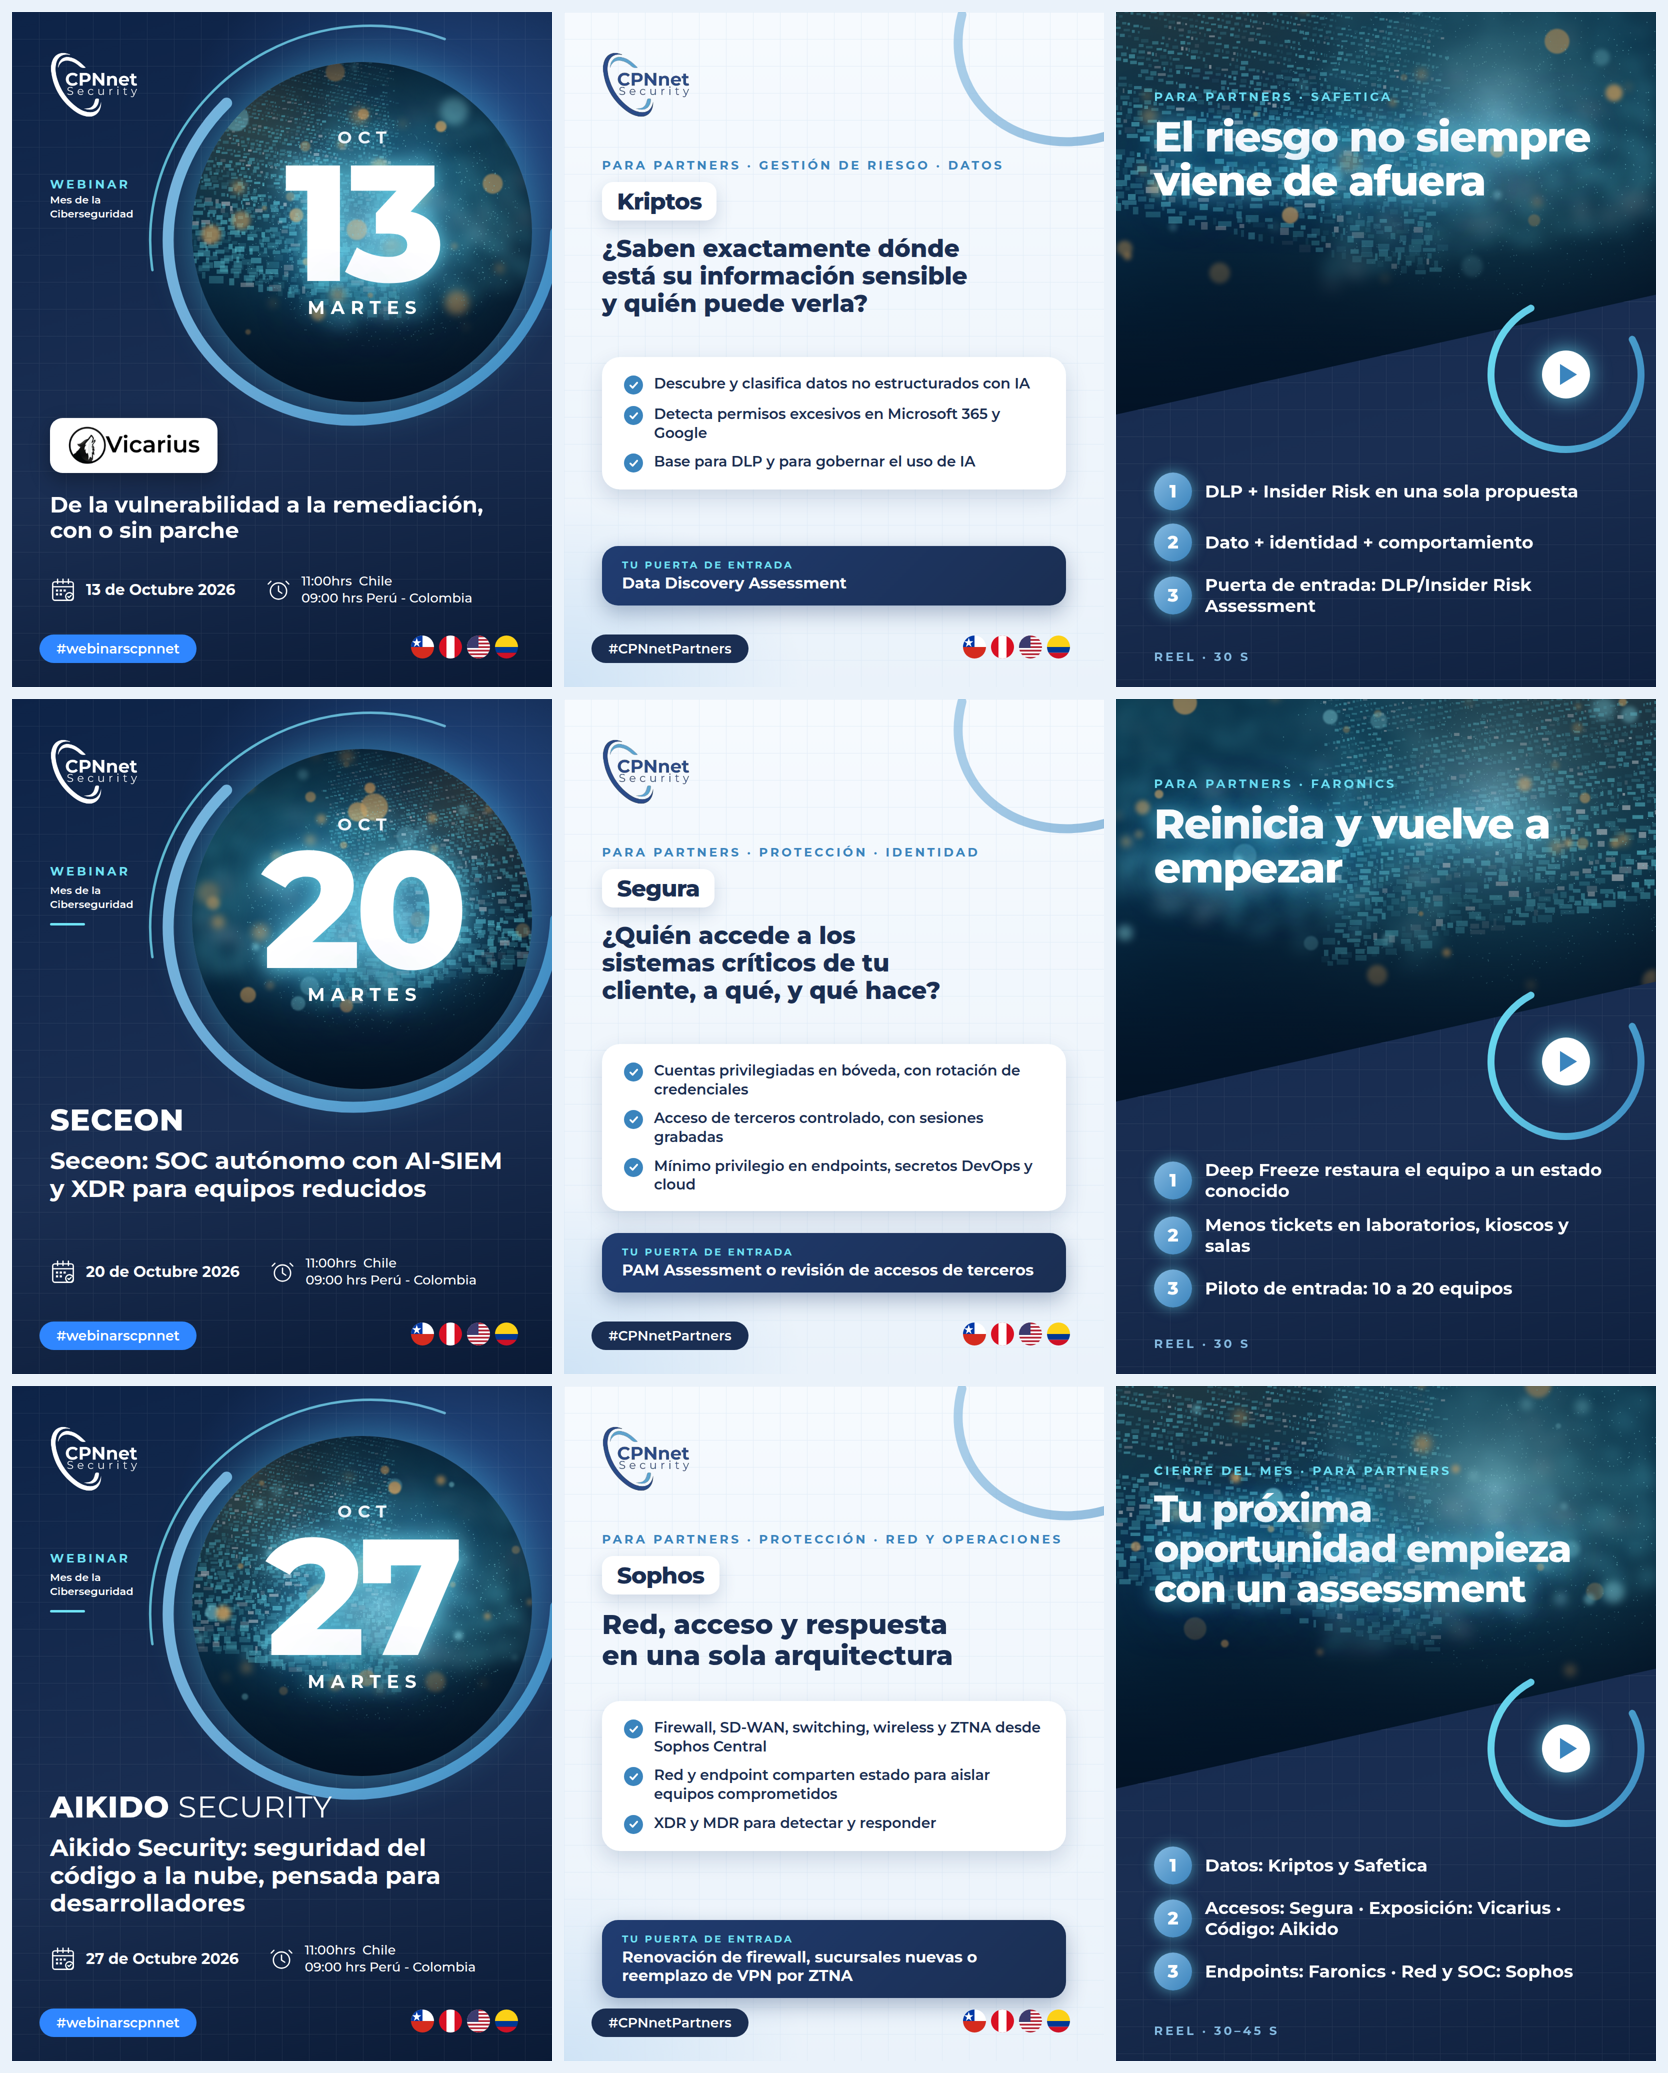
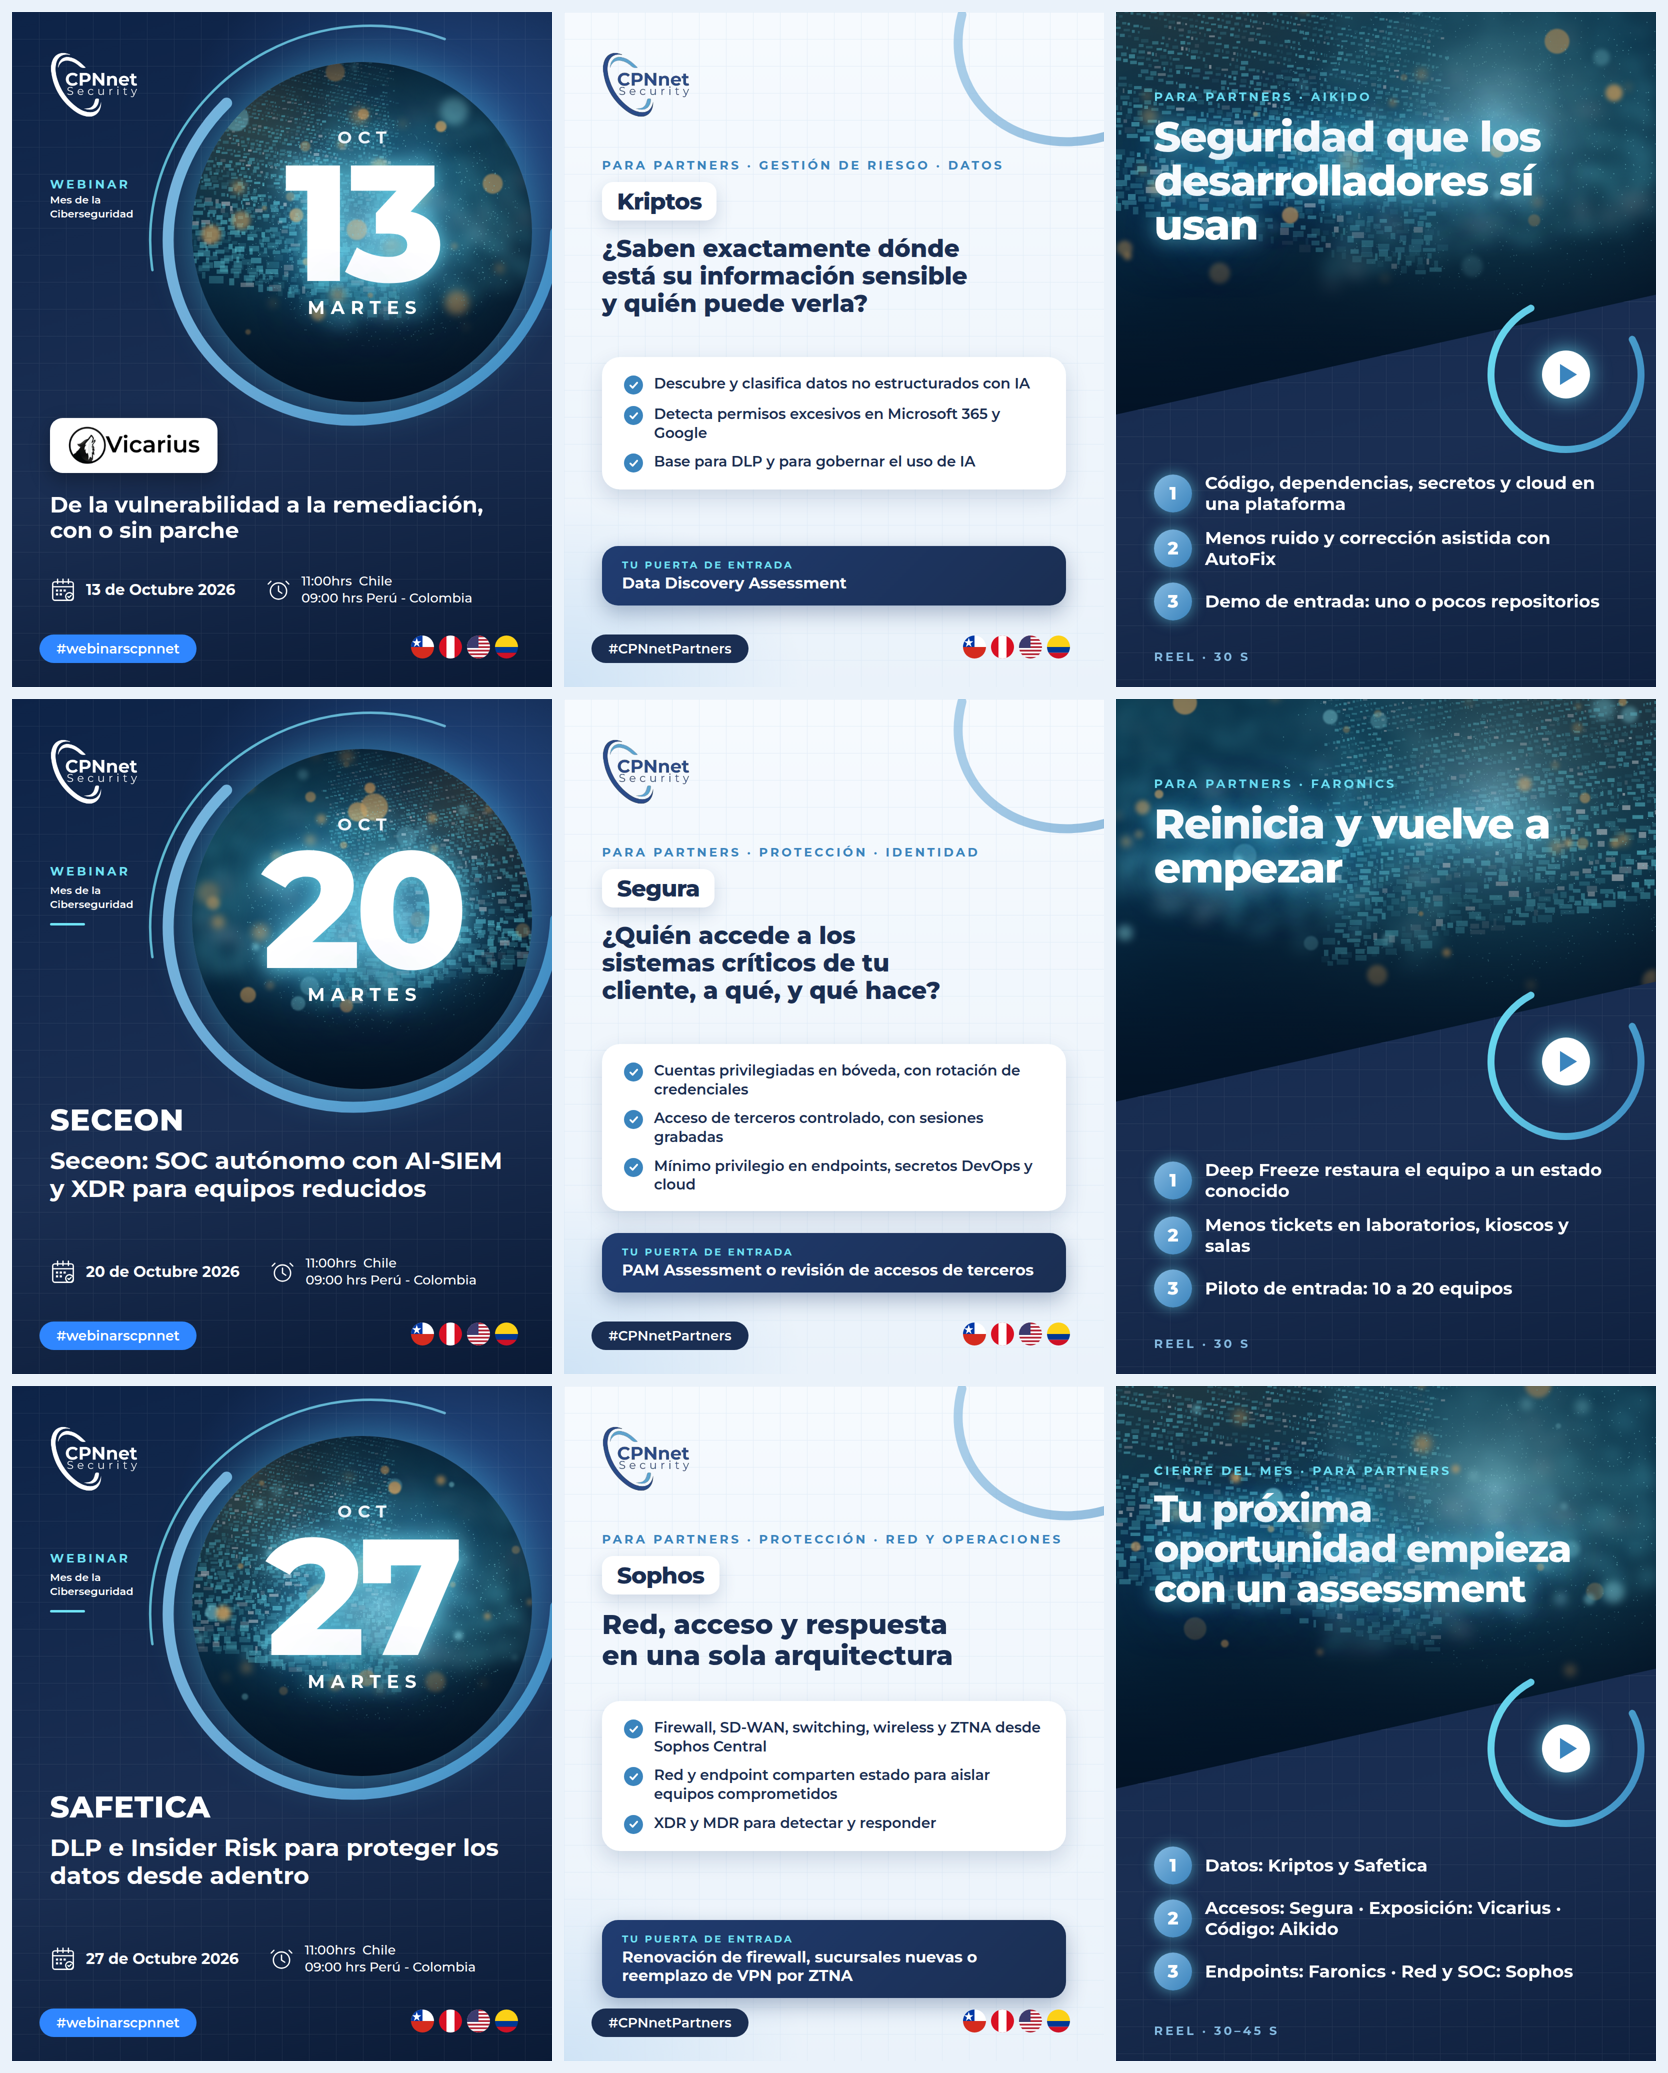
Grilla partners: webinar del 27 pasa a Safetica; reel del 16 pasa a Aikido
Claude-Session: https://claude.ai/code/session_01BhgdAk8jn1gDyTpKoYa1pq

Changed region(s): [[0.6859, 0.2161, 0.9664, 0.3087], [0.0312, 0.8644, 0.2806, 0.9262], [0.6859, 0.0617, 0.9664, 0.1235]]

diff --git a/octubre-ciberseguridad/src/build_partners.py b/octubre-ciberseguridad/src/build_partners.py
@@ -74,8 +74,8 @@ PIECES = [
       titulo="¿Saben exactamente dónde está su información sensible y quién puede verla?",
       bullets=["Descubre y clasifica datos no estructurados con IA", "Detecta permisos excesivos en Microsoft 365 y Google", "Base para DLP y para gobernar el uso de IA"],
       entrada="Data Discovery Assessment"),
- dict(n="03", fecha="Vie 16 oct", tipo="reel", nombre="reel-safetica", seed=61, flip=True, tag="Para partners · Safetica", hook="El riesgo no siempre viene de afuera",
-      points=["DLP + Insider Risk en una sola propuesta", "Dato + identidad + comportamiento", "Puerta de entrada: DLP/Insider Risk Assessment"], dur="30 s"),
+ dict(n="03", fecha="Vie 16 oct", tipo="reel", nombre="reel-aikido", seed=61, flip=True, tag="Para partners · Aikido", hook="Seguridad que los desarrolladores sí usan",
+      points=["Código, dependencias, secretos y cloud en una plataforma", "Menos ruido y corrección asistida con AutoFix", "Demo de entrada: uno o pocos repositorios"], dur="30 s"),
  dict(n="04", fecha="Lun 19 oct", tipo="copia", nombre="webinar-seceon", src=V / "posts/07_webinar-seceon.png"),
  dict(n="05", fecha="Mié 21 oct", tipo="sol", nombre="segura", marca="Segura", tag="Para partners · Protección · Identidad",
       titulo="¿Quién accede a los sistemas críticos de tu cliente, a qué, y qué hace?",
@@ -83,7 +83,8 @@ PIECES = [
       entrada="PAM Assessment o revisión de accesos de terceros"),
  dict(n="06", fecha="Vie 23 oct", tipo="reel", nombre="reel-faronics", seed=71, tag="Para partners · Faronics", hook="Reinicia y vuelve a empezar",
       points=["Deep Freeze restaura el equipo a un estado conocido", "Menos tickets en laboratorios, kioscos y salas", "Piloto de entrada: 10 a 20 equipos"], dur="30 s"),
- dict(n="07", fecha="Lun 26 oct", tipo="copia", nombre="webinar-aikido", src=V / "posts/10_webinar-aikido.png"),
+ dict(n="07", fecha="Lun 26 oct", tipo="web", nombre="webinar-safetica", seed=111, flip=True, wordmark="<b>SAFETICA</b>", fecha_txt="27 de Octubre 2026", dia="27", fecha_pub="27 de Octubre 2026",
+      title="DLP e Insider Risk para proteger los datos desde adentro"),
  dict(n="08", fecha="Mié 28 oct", tipo="sol", nombre="sophos", marca="Sophos", tag="Para partners · Protección · Red y operaciones",
       titulo="Red, acceso y respuesta en una sola arquitectura", hs=54, btop=630,
       bullets=["Firewall, SD-WAN, switching, wireless y ZTNA desde Sophos Central", "Red y endpoint comparten estado para aislar equipos comprometidos", "XDR y MDR para detectar y responder"],
@@ -102,6 +103,11 @@ def render():
             out = OUT / sub / f"{p['n']}_{p['nombre']}.png"
             if p["tipo"] == "copia":
                 shutil.copy(p["src"], out)
+            elif p["tipo"] == "web":
+                p2 = dict(p, fecha=p["fecha_pub"])
+                pg = br.new_page(viewport={"width": 1080, "height": 1350})
+                pg.set_content(b2.t_webinar(p2), timeout=120000); pg.wait_for_timeout(500)
+                pg.screenshot(path=str(out)); pg.close()
             else:
                 h = 1920 if p["tipo"] == "reel" else 1350
                 pg = br.new_page(viewport={"width": 1080, "height": h})
